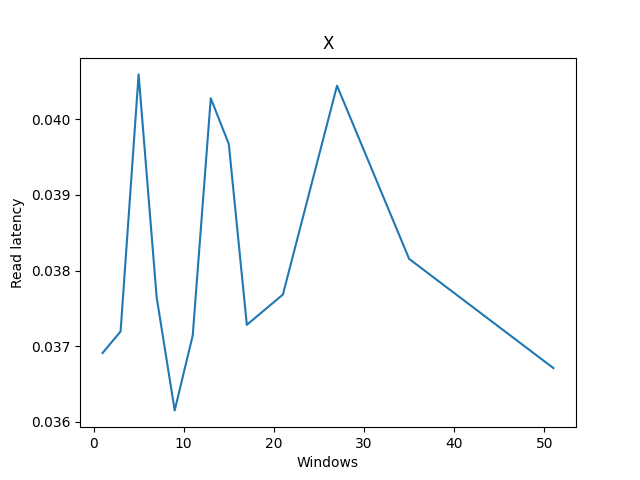
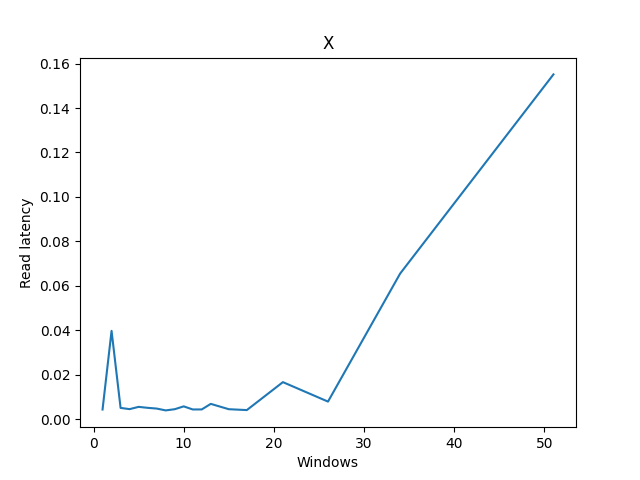
all

diff --git a/client/perf.py b/client/perf.py
@@ -256,7 +256,7 @@ def collect_read_write_mix():
     iter_k = random.randrange(0, pow(10,10))
     
     max_op_count = 100
-    window_step_size = 2
+    window_step_size = 1
     
     done = set()
     x, read_lat = [], []
@@ -274,10 +274,10 @@ def collect_read_write_mix():
                 key = f"TTTT{iter_k}-{window_count}:{w}:{r}"
                 perf_client.send_put(key, key, False)
                 
-            for r in range(reps, -1, -1):
+            for r in range(reps):
                 key = f"TTTT{iter_k}-{window_count}:{w}:{r}"
                 t1 = time.time()
-                perf_client.send_put(key, key)
+                perf_client.send_get(key)
                 read_lat_sample.append(time.time() - t1)
         
         x.append(window_count)

diff --git a/server/raft/kv_server.py b/server/raft/kv_server.py
@@ -12,6 +12,7 @@ from .dur_log_manager import dur_log_manager
 from .node import raft_node
 from .utils import *
 from .stats import stats
+from .topological_sort import *
 from threading import Thread
 import random
 
@@ -164,6 +165,8 @@ class KVStoreServicer(kvstore_pb2_grpc.KVStoreServicer):
 
 
 def main(port=5440):
+    _, time = get_ordered_durability_logs()
+    print("time to sort", time)
     grpc_server = grpc.server(futures.ThreadPoolExecutor(max_workers=4))
     kvstore_pb2_grpc.add_KVStoreServicer_to_server(KVStoreServicer(), grpc_server)
     grpc_server.add_insecure_port(f'[::]:{port}')

diff --git a/server/raft/topological_sort.py b/server/raft/topological_sort.py
@@ -1,0 +1,25 @@
+import networkx as nx
+from time import time
+
+def get_ordered_durability_logs():
+    t = time() 
+    n = 5000
+    e = []
+    for i in range(n):
+        for j in range(i):
+            e.append((i, j))
+
+    # create a directed acyclic graph
+    graph = nx.DiGraph()
+    graph.add_edges_from(e)
+
+    # perform topological sort
+    topological_order = list(nx.topological_sort(graph))
+
+    # print(topological_order)
+    dur = time() - t
+
+    return topological_order, dur
+
+_, t = get_ordered_durability_logs()
+print(t)
